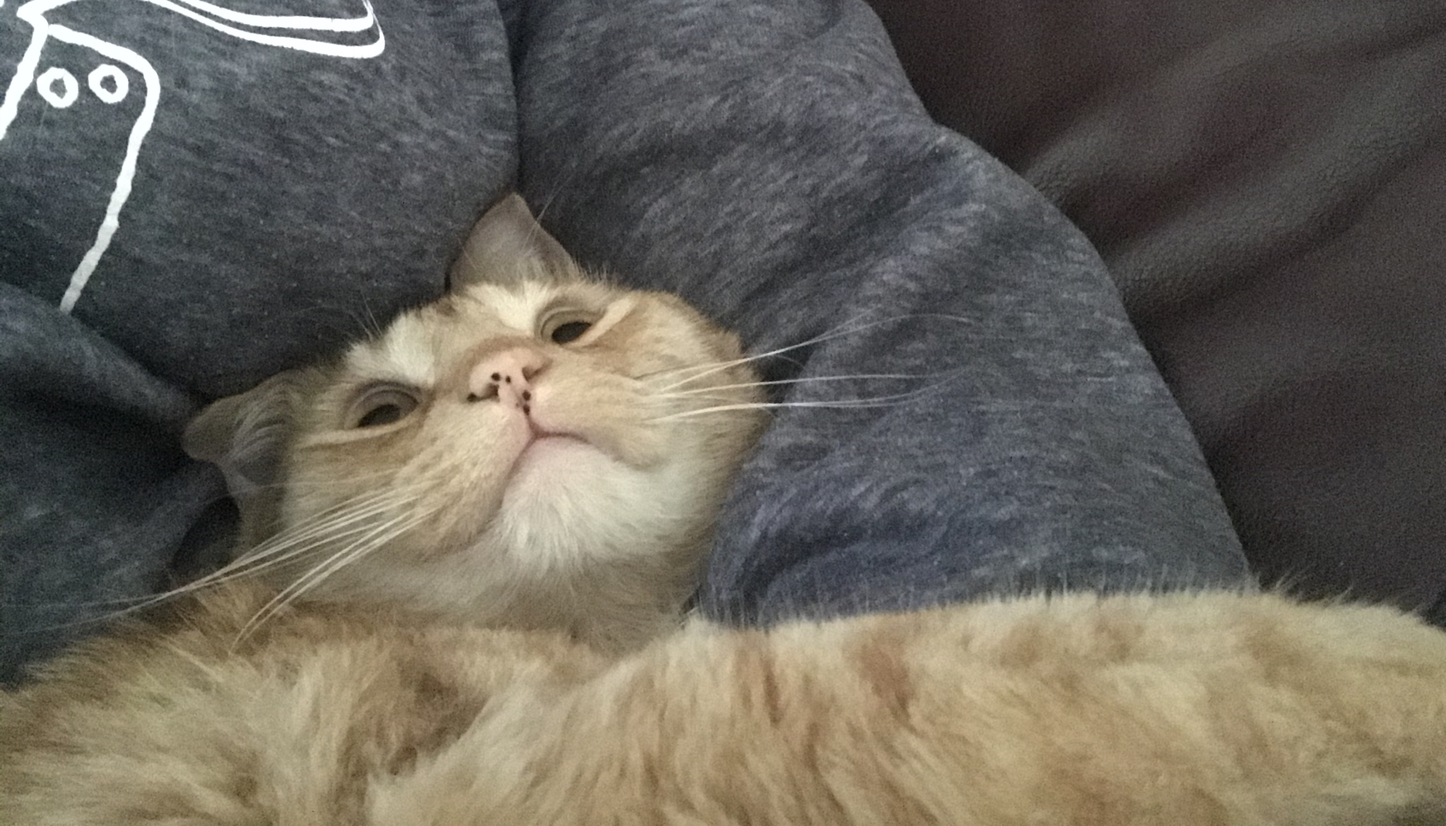
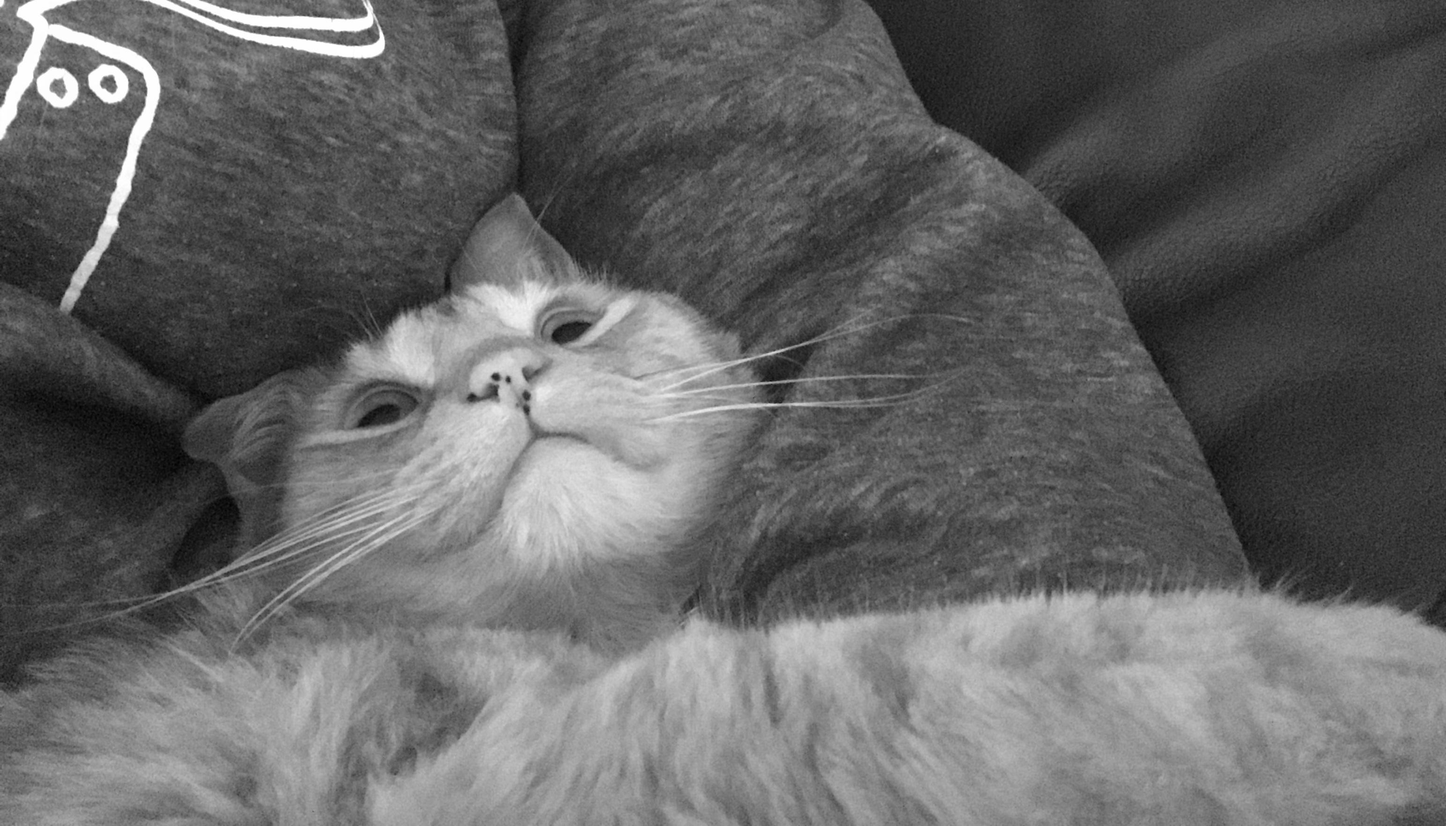
helper functions

Changed region(s): [[0.0, 0.6856, 1.0, 1.0], [0.1865, 0.3116, 0.5285, 0.6856], [0.9948, 0.9972, 1.0, 1.0]]

diff --git a/pixly-backend/helpers.py b/pixly-backend/helpers.py
@@ -1,6 +1,9 @@
+import os
 import boto3
 from config import S3_KEY, S3_SECRET, S3_LOCATION, S3_BUCKET
 from PIL import Image, ImageOps
+from models import db, Pixly
+
 
 ALLOWED_EXTENSIONS = {'pdf', 'png', 'jpg', 'jpeg', 'gif', 'tiff', 'svg'}
 
@@ -37,12 +40,54 @@ def upload_file_to_s3(file, bucket_name, acl="public-read"):
     
     return "{}{}".format(S3_LOCATION, file.filename)
 
+
+def upload_backend_file_to_s3(filepath, bucket_name, acl="public-read"):
+    filename = filepath.split("/")[-1]
+    extension = filepath.split(".")[-1]
+# filepath ./images/cute.jpg
+# filename cute.jpg
+# extension jpg
+# contentType "image/jpg"
+    
+    if extension == "jpg":
+        extension = "jpeg"
+    
+    try: 
+        s3.upload_file(  #  s3.upload_fileobj
+            filepath,
+            bucket_name,
+            filename,
+            ExtraArgs={
+                "ACL": acl,
+                "ContentType": (f"image/{extension}")
+            }
+        )
+    
+    except Exception as e:
+        print("Something went wrong: ", e)
+        return e
+    
+    return "{}{}".format(S3_LOCATION, filename)
+
+def fetch_image_link_from_db(id):
+    link = db.session.query(Pixly.img_link).filter(Pixly.id == id).one()[0]
+    return link
+
+def fetch_image_file_from_bucket(link): 
+    
+    # print(link, "IMG LINK FROM DB QUERY")
+    # filename = link.split("/")[-1]
+    # print(filename, "FILENAME FROM DB QUERY")
+    # link.save(f"./images/{filename}")
+
 def convert_to_black_and_white(imagePath):
     image = Image.open(imagePath)
     greyscale_image = image.convert('L')
-    print(greyscale_image, "THIS IS GSCALEIMG")
-    link = upload_file_to_s3(greyscale_image, S3_BUCKET)
-    print(link, "LINK FROM B&W")
-    return link
+    greyscale_image.save(imagePath)
+    link = upload_backend_file_to_s3(imagePath, S3_BUCKET) 
+    os.remove(imagePath)
+    return str(link)
+
+
 
 

diff --git a/pixly-backend/app.py b/pixly-backend/app.py
@@ -31,6 +31,7 @@ db.create_all()
 
 
 
+
 ##############################################################################
 
 # @app.route("/api/images")
@@ -93,3 +94,5 @@ def upload_file():
 
     else: 
         pass
+
+
